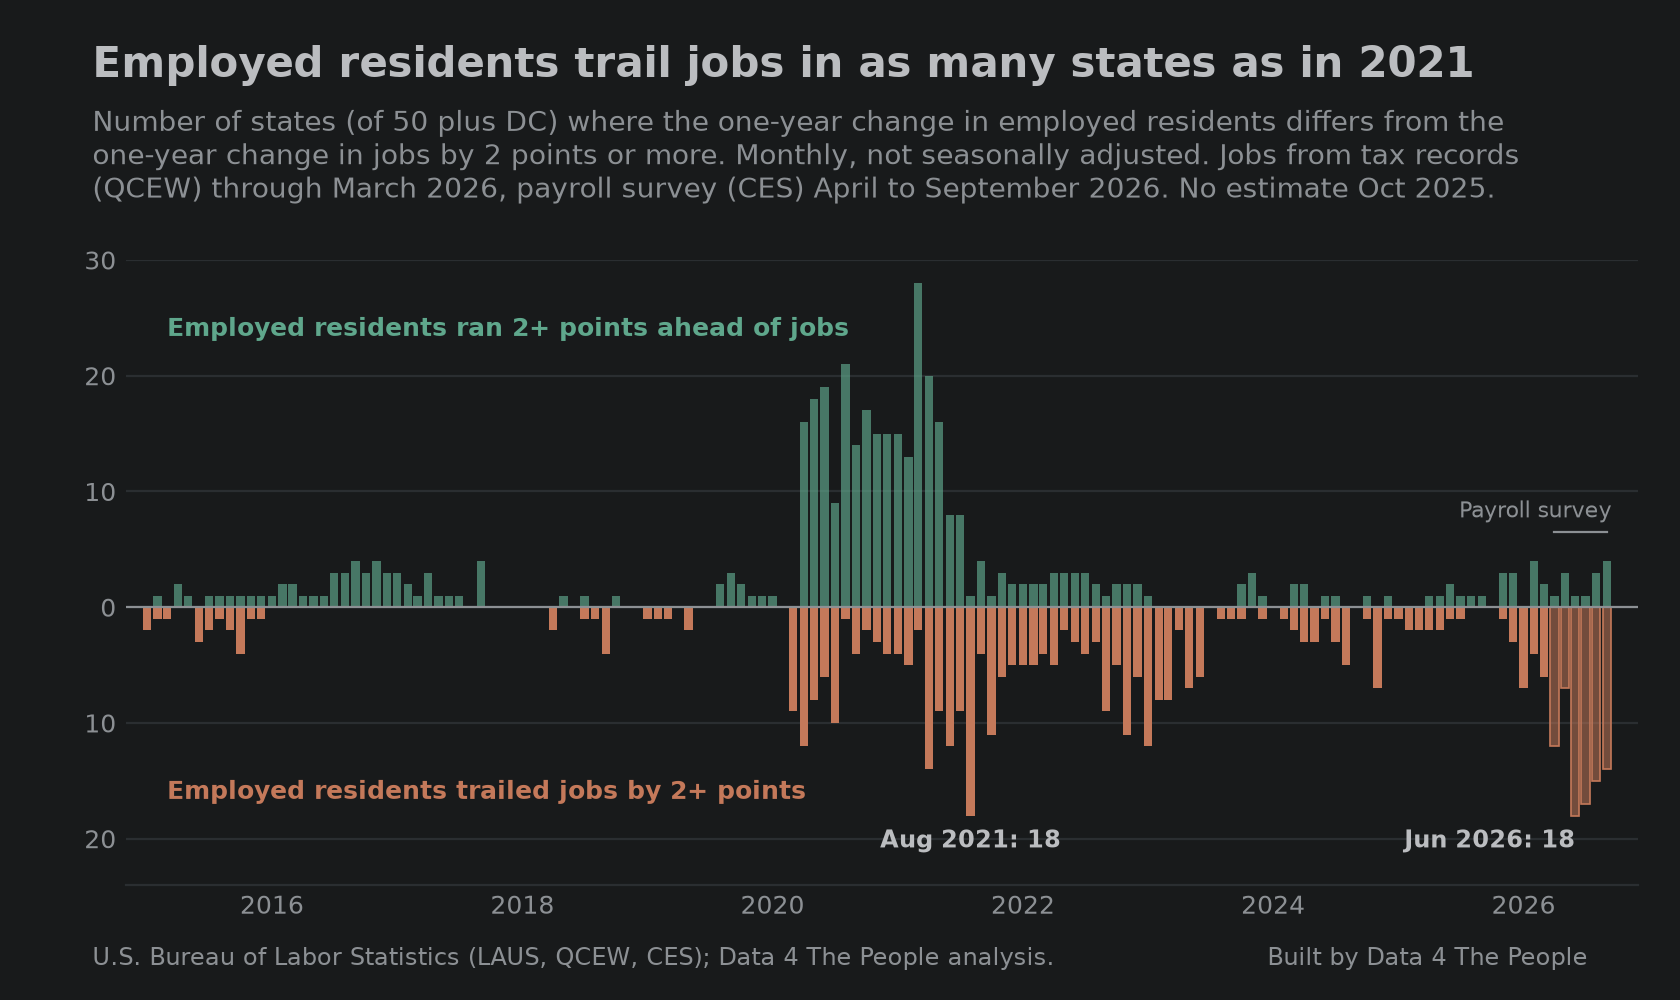
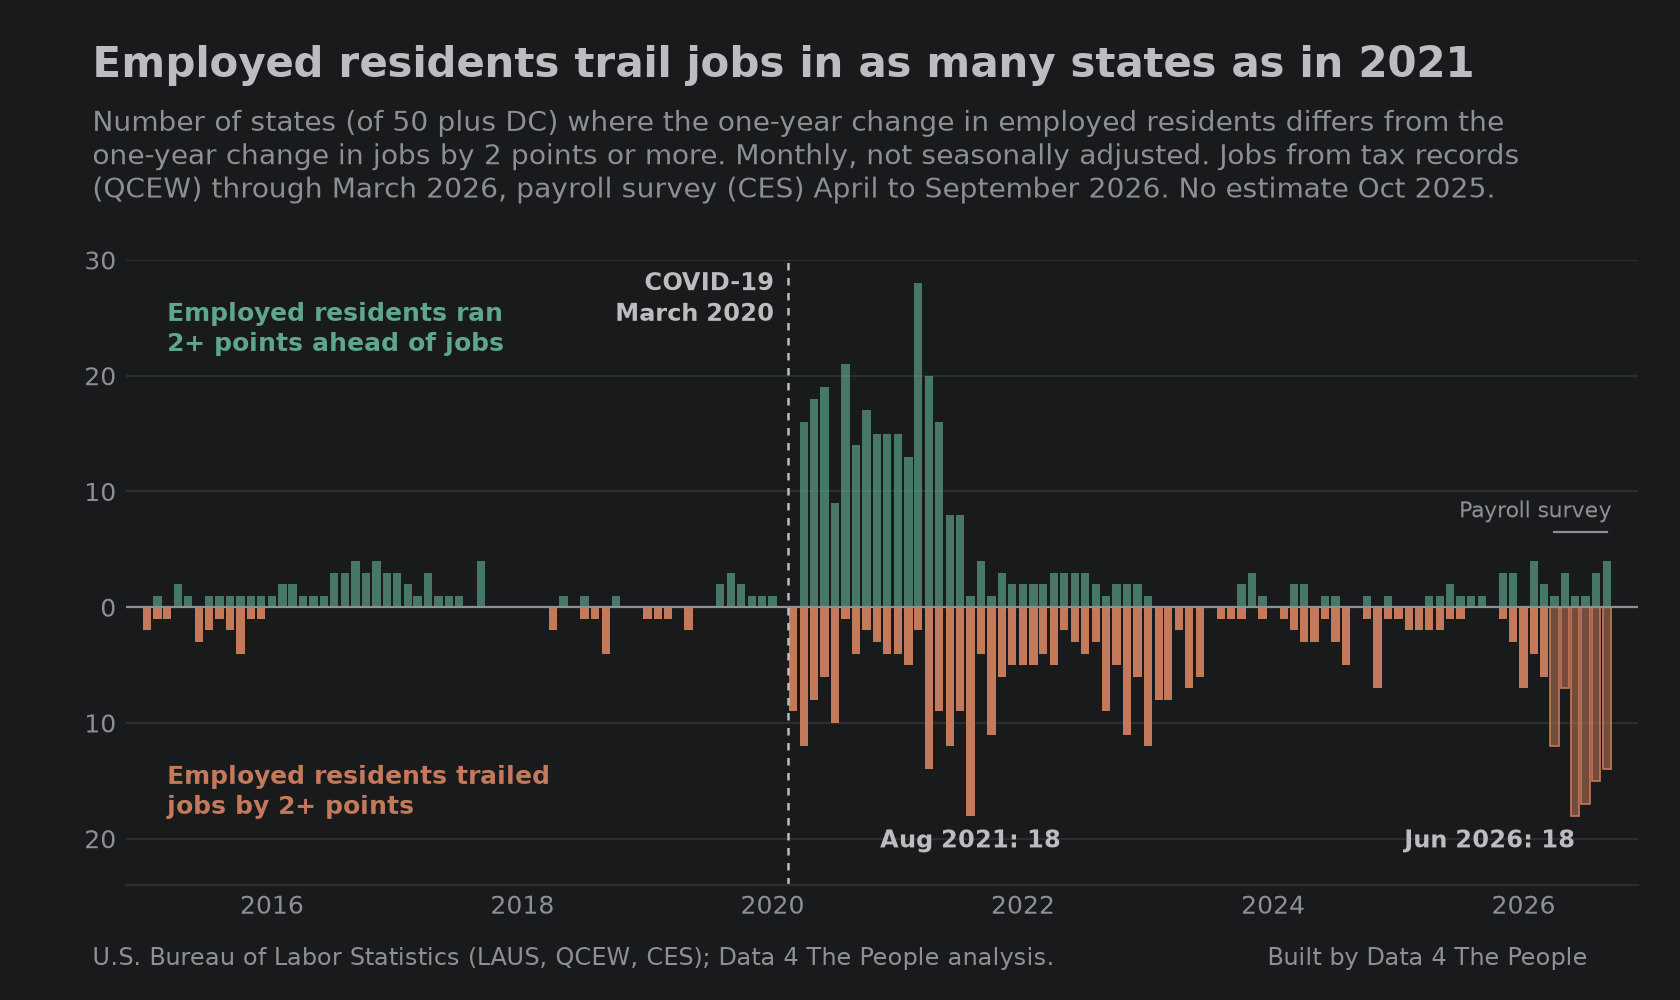
labor-force-september-2026: mark March 2020 on the state-gap chart

Changed region(s): [[0.0929, 0.744, 0.4952, 0.837], [0.0929, 0.248, 0.4952, 0.372]]

diff --git a/scripts/chart_state_gaps.py b/scripts/chart_state_gaps.py
@@ -33,9 +33,13 @@ def main() -> None:
     ax.bar(t.index[ok & ~ces], -t.trail[ok & ~ces], width=w, color=CORAL)
     ax.bar(t.index[ces], -t.trail[ces], width=w, color=CORAL + "88", edgecolor=CORAL, linewidth=0.6)
     ax.axhline(0, color=MUTED, linewidth=0.8)
-    ax.text(pd.Timestamp("2015-03-01"), 24, "Employed residents ran 2+ points ahead of jobs", color=TEAL,
+    covid = pd.Timestamp("2020-02-15")   # between the February and March 2020 bars
+    ax.axvline(covid, color=INK, linewidth=0.9, linestyle=(0, (3, 3)))
+    ax.text(covid - pd.Timedelta(days=40), 29.5, "COVID-19\nMarch 2020", ha="right", va="top", color=INK,
+            fontsize=8.5, fontweight="bold", linespacing=1.3)
+    ax.text(pd.Timestamp("2015-03-01"), 24, "Employed residents ran\n2+ points ahead of jobs", color=TEAL,
             fontsize=9, fontweight="bold", va="center")
-    ax.text(pd.Timestamp("2015-03-01"), -16, "Employed residents trailed jobs by 2+ points", color=CORAL,
+    ax.text(pd.Timestamp("2015-03-01"), -16, "Employed residents trailed\njobs by 2+ points", color=CORAL,
             fontsize=9, fontweight="bold", va="center")
     for d, v, ha in [(pd.Timestamp("2021-08-01"), t.trail["2021-08-01"], "center"),
                      (pd.Timestamp("2026-06-01"), t.trail["2026-06-01"], "right")]:

diff --git a/posts/labor-force-september-2026/POST.md b/posts/labor-force-september-2026/POST.md
@@ -51,7 +51,7 @@ One state accounts for half of that net increase. In Michigan, 20 counties enter
 
 We are treating these numbers with caution. County labor force figures are built from state estimates that lean heavily on a household survey, and in 2026 that survey has drifted away from counts of jobs. In September, the count of employed residents trailed job counts by 2 points or more in 14 states, and Michigan's gap was the largest. Before 2020, that never happened in more than four states in a month. The chart below shows each month since 2015.
 
-![Bar chart of the number of states, of 50 plus DC, where the one-year change in employed residents differs from the one-year change in jobs by 2 points or more, monthly from January 2015 to September 2026. Bars above the line count states where employed residents ran ahead; bars below count states where they trailed. Before 2020, counts stay under 5. In 2020 and early 2021, up to 28 states ran ahead. Trailing counts reach 18 in August 2021, are 0 to 3 through 2025, then rise to 18 in June 2026 and 14 in September 2026.](images/sep26-11-state-gaps.png)
+![Bar chart of the number of states, of 50 plus DC, where the one-year change in employed residents differs from the one-year change in jobs by 2 points or more, monthly from January 2015 to September 2026. Bars above the line count states where employed residents ran ahead; bars below count states where they trailed. A dashed line marks March 2020, the start of COVID-19. Before it, counts stay under 5. In 2020 and early 2021, up to 28 states ran ahead. Trailing counts reach 18 in August 2021, are 0 to 3 through 2025, then rise to 18 in June 2026 and 14 in September 2026.](images/sep26-11-state-gaps.png)
 *Employed residents trail jobs in as many states as in 2021. Source: U.S. Bureau of Labor Statistics (LAUS, QCEW, CES); Data 4 The People analysis.*
 
 In 2020, COVID was a shock to our labor force and to the surveys that measure it. Models that hadn't really been stressed in the past were stressed, and the BLS tried to make changes in real time. It reminds me of a shock to a refinery and the operator trying to monkey with the controllers to get the system back to homeostasis. But if you move the controllers too much, you can make the problem worse. Something like that may be happening now. The result is two different measures for the workforce. One says Michigan is losing employed residents at an alarming clip. The count of jobs says nothing is changing. Not knowing which one is correct may be even scarier than knowing.
